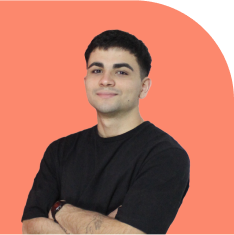
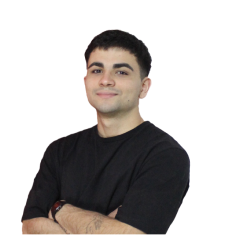
Actualizacion Landing-Octopush

diff --git a/Landing-Octopush/assets/css/styles.css b/Landing-Octopush/assets/css/styles.css
@@ -417,19 +417,18 @@ body::-webkit-scrollbar {
   margin-left: 10px;
   margin-top: 20px;
   z-index: 15;
-  background: linear-gradient(to right, red, blue);
-  color: transparent;
+  color: black;
   -webkit-background-clip: text;
   background-clip: text;
   transition: background-position 1s;
   background-size: 200% 100%;
-} 
+}
 
-/* .expanded_nombre {
+.expanded_nombre {
   color: #fff;
   transition: all 1s ease-in-out;
   z-index: 10;
-} */
+}
 
 .desc_servicio {
   overflow: hidden;
@@ -490,7 +489,7 @@ body::-webkit-scrollbar {
   display: flex;
   position: absolute;
   bottom: 25px;
-  right: 29px;
+  right: 10px;
   padding: 5px;
   background-color: transparent;
   color: white;
@@ -575,13 +574,13 @@ h1 {
   justify-content: flex-start;
   align-items: flex-start;
   transition: height 0.3s ease-in-out;
-  height: 58px; /* Altura inicial */
+  height: 58px; 
 }
 
 .text-slide {
   display: flex;
   flex-direction: column;
-  animation: slide 13s infinite; /* AJUSTA ESTE VALOR */
+  animation: slide 13s infinite; 
 }
 
 .highlight-text {
@@ -592,8 +591,9 @@ h1 {
   transition: opacity 0.5s ease-in-out;
   font-weight: 600;
 }
+
 .container {
-  position: relative; /* Ajustado para evitar problemas de posicionamiento */
+  position: relative;
   top: 0px;
   left: 0;
   right: 0;
@@ -671,28 +671,67 @@ h1 {
   width: 234px;
   height: 234px;
   flex-shrink: 0;
-  background: url(<path-to-image>) lightgray 100% / cover no-repeat;
+  background: url(<path-to-image>) cover no-repeat;
 }
 
-.section_4 .container_1 .container_fotos .foto_1 {
+.section_4 .container_1 .container_fotos .container_1 img {
   position: absolute;
-  right: -80px;
+  right: 60px;
   top: 0;
   background-color: transparent;
 }
 
-.section_4 .container_1 .container_fotos .foto_2 {
+.section_4 .container_1 .container_fotos .container_1 div {
   position: absolute;
-  right: -160px;
+  right: -30px;
+  top: 100px;
+  background-color: #fc886d;
+  padding: 10px;
+  gap: 10px;
+}
+
+.section_4 .container_1 .container_fotos .container_1 div p{
+  margin: 0;
+}
+
+.section_4 .container_1 .container_fotos .container_2 img {
+  position: absolute;
+  right: -30px;
   top: 180px;
   background-color: transparent;
 }
 
-.section_4 .container_1 .container_fotos .foto_3 {
+.section_4 .container_1 .container_fotos .container_2 div {
   position: absolute;
-  right: -80px;
+  right: 150px;
+  top: 275px;
+  background-color: #fc886d;
+  padding: 10px;
+  gap: 10px;
+}
+
+.section_4 .container_1 .container_fotos .container_2 div p{
+  margin: 0;
+}
+
+.section_4 .container_1 .container_fotos .container_3 img {
+  position: absolute;
+  right: 60px;
   top: 360px;
   background-color: transparent;
+}
+
+.section_4 .container_1 .container_fotos .container_3 div {
+  position: absolute;
+  right: -30px;
+  top: 450px;
+  background-color: #fc886d;
+  padding: 10px;
+  gap: 10px;
+}
+
+.section_4 .container_1 .container_fotos .container_3 div p{
+  margin: 0;
 }
 
 .section_4 .container_2 {
@@ -720,6 +759,9 @@ h1 {
   max-width: 328px;
   display: flex;
   flex-direction: column;
+  justify-content: center;
+  text-align: center;
+  gap: 35px;
 }
 
 .section_5 .container_1 .h1 {
@@ -730,7 +772,7 @@ h1 {
 .section_5 .container_1 .container_btn {
   display: flex;
   width: 100%;
-  justify-content: end;
+  justify-content: center;
 }
 
 .section_5 .container_1 .container_btn button {
@@ -825,23 +867,26 @@ h1 {
   align-items: center;
   align-self: stretch;
   background-color: #3c9;
-  background-image: url("/img/bg-footer.png");
-  background-size: 400% 200%;
-  background-position: 30%; /* Centra la imagen */
-  background-repeat: no-repeat; /* Evita que la imagen se repita */
 }
 
 .footer .container_1 {
   display: flex;
-  padding: 0px 16px 0px 184px;
-  justify-content: flex-end;
   align-items: center;
+  justify-content: center;
   gap: 8px;
+  width: 70%;
+}
+
+.footer .container_1 div {
+  display: flex;
+  width: 100%;
+  align-items: center;
+  justify-content: center;
 }
 
 .footer .container_1 a {
   display: flex;
-  padding: 10px;
+  padding: 13px;
   justify-content: center;
   align-items: center;
   gap: 10px;
@@ -851,4 +896,16 @@ h1 {
   display: flex;
   flex-direction: row;
   align-items: flex-start;
+}
+
+@media (max-width: 619px){
+
+}
+
+@media (max-width: 791px){
+
+}
+
+@media (max-width: 1439px){
+
 }

diff --git a/Landing-Octopush/prueba.html b/Landing-Octopush/prueba.html
@@ -1,71 +1,15 @@
 <!DOCTYPE html>
-<html lang="en">
+<html lang="es">
 <head>
-  <meta charset="UTF-8">
-  <meta name="viewport" content="width=device-width, initial-scale=1.0">
-  <title>Cambio de Color</title>
-  <style>
-    body {
-      font-family: Arial, sans-serif;
-      text-align: center;
-      padding: 20px;
-    }
-
-    #text {
-      font-size: 2rem;
-      font-weight: bold;
-      display: inline-block;
-      color: red; /* Color inicial */
-      position: relative;
-      overflow: hidden;
-    }
-
-    #text span {
-      display: inline-block;
-      position: absolute;
-      top: 0;
-      left: 0;
-      white-space: nowrap;
-      color: blue; /* Color secundario */
-      transform: translateX(-100%);
-      transition: transform 1s ease-in-out;
-    }
-
-    #text.show span {
-      transform: translateX(0);
-    }
-
-    button {
-      margin-top: 20px;
-      padding: 10px 20px;
-      font-size: 1rem;
-      cursor: pointer;
-    }
-  </style>
+    <meta charset="UTF-8">
+    <meta name="viewport" content="width=device-width, initial-scale=1.0">
+    <title>Cambio de Color con Botón</title>
+    <link rel="stylesheet" href="pruebastyles.css">
 </head>
 <body>
-  <div id="text">
-    Texto Dinámico
-    <span>Texto Dinámico</span>
-  </div>
-  <button onclick="changeColor()">Cambiar Color</button>
+    <h1 class="color-changing-text">Texto con cambio de color</h1>
+    <button id="toggleButton">Cambiar Color</button>
 
-  <script>
-    let direction = 'toRight'; // Dirección inicial
-
-    function changeColor() {
-      const text = document.getElementById('text');
-      const span = text.querySelector('span');
-
-      // Alternar la dirección del barrido
-      if (direction === 'toRight') {
-        text.classList.add('show'); // Mostrar el color secundario de izquierda a derecha
-        direction = 'toLeft';
-      } else {
-        text.classList.remove('show'); // Mostrar el color secundario de derecha a izquierda
-        direction = 'toRight';
-      }
-    }
-  </script>
+    <script src="pruebaindex.js"></script>
 </body>
 </html>

diff --git a/Landing-Octopush/index.html b/Landing-Octopush/index.html
@@ -198,14 +198,23 @@
           <p class="h1">Somos un equipo / Somos un equipo</p>
         </div>
         <div class="container_fotos">
-          <div class="container_foto foto_1">
+          <div class="container_foto container_1">
             <img src="./img/javo.png" alt="">
+            <div>
+              <p class="hb">Desarrollador</p>
+            </div>
           </div>
-          <div class="container_foto foto_2">
+          <div class="container_foto container_2">
             <img src="./img/croco.png" alt="">
+            <div>
+              <p class="hb">Desarrollador</p>
+            </div>
           </div>
-          <div class="container_foto foto_3">
+          <div class="container_foto container_3">
             <img src="./img/andrade.png" alt="">
+            <div>
+              <p class="hb">Diseñador</p>
+            </div>
           </div>
         </div>
       </div>
@@ -230,8 +239,12 @@
     <!-- Footer -->
     <footer class="footer">
       <div class="container_1">
-        <a href=""><img src="./img/Linkedin.svg" alt="" /></a>
-        <a href=""><img src="./img/Instagram.svg" alt="" /></a>
+        <div>
+          <a href=""><img src="./img/Linkedin.svg" alt="" /></a>
+        </div>
+        <div>
+          <a href=""><img src="./img/Instagram.svg" alt="" /></a>
+        </div>
       </div>
       <div class="container_2">
         <img src="./img/isotipo-1.svg" alt="" />

diff --git a/Landing-Octopush/pruebastyles.css b/Landing-Octopush/pruebastyles.css
@@ -1,0 +1,43 @@
+body {
+    display: flex;
+    flex-direction: column;
+    justify-content: center;
+    align-items: center;
+    height: 100vh;
+    margin: 0;
+    background-color: #222;
+    font-family: Arial, sans-serif;
+    color: white;
+}
+
+.color-changing-text {
+    font-size: 2.5rem;
+    font-weight: bold;
+    color: black; /* Color inicial */
+    background: linear-gradient(90deg, black 50%, white 50%); /* Fondo para animación */
+    background-size: 200% 100%; /* Espacio para desplazar el fondo */
+    background-position: left; /* Inicio en azul */
+    -webkit-background-clip: text;
+    background-clip: text;
+    color: transparent;
+    transition: background-position 0.5s ease; /* Suaviza el cambio */
+}
+
+.color-changing-text.active {
+    background-position: right; /* Mueve el color rojo al frente */
+}
+
+button {
+    margin-top: 20px;
+    padding: 10px 20px;
+    font-size: 1rem;
+    background-color: #555;
+    color: white;
+    border: none;
+    border-radius: 5px;
+    cursor: pointer;
+}
+
+button:hover {
+    background-color: #777;
+}

diff --git a/Landing-Octopush/pruebaindex.js b/Landing-Octopush/pruebaindex.js
@@ -1,0 +1,8 @@
+// script.js
+const textElement = document.querySelector('.color-changing-text');
+const button = document.getElementById('toggleButton');
+
+// Alternar la clase que cambia la posición del gradiente
+button.addEventListener('click', () => {
+    textElement.classList.toggle('active'); // Alterna entre azul y rojo
+});
